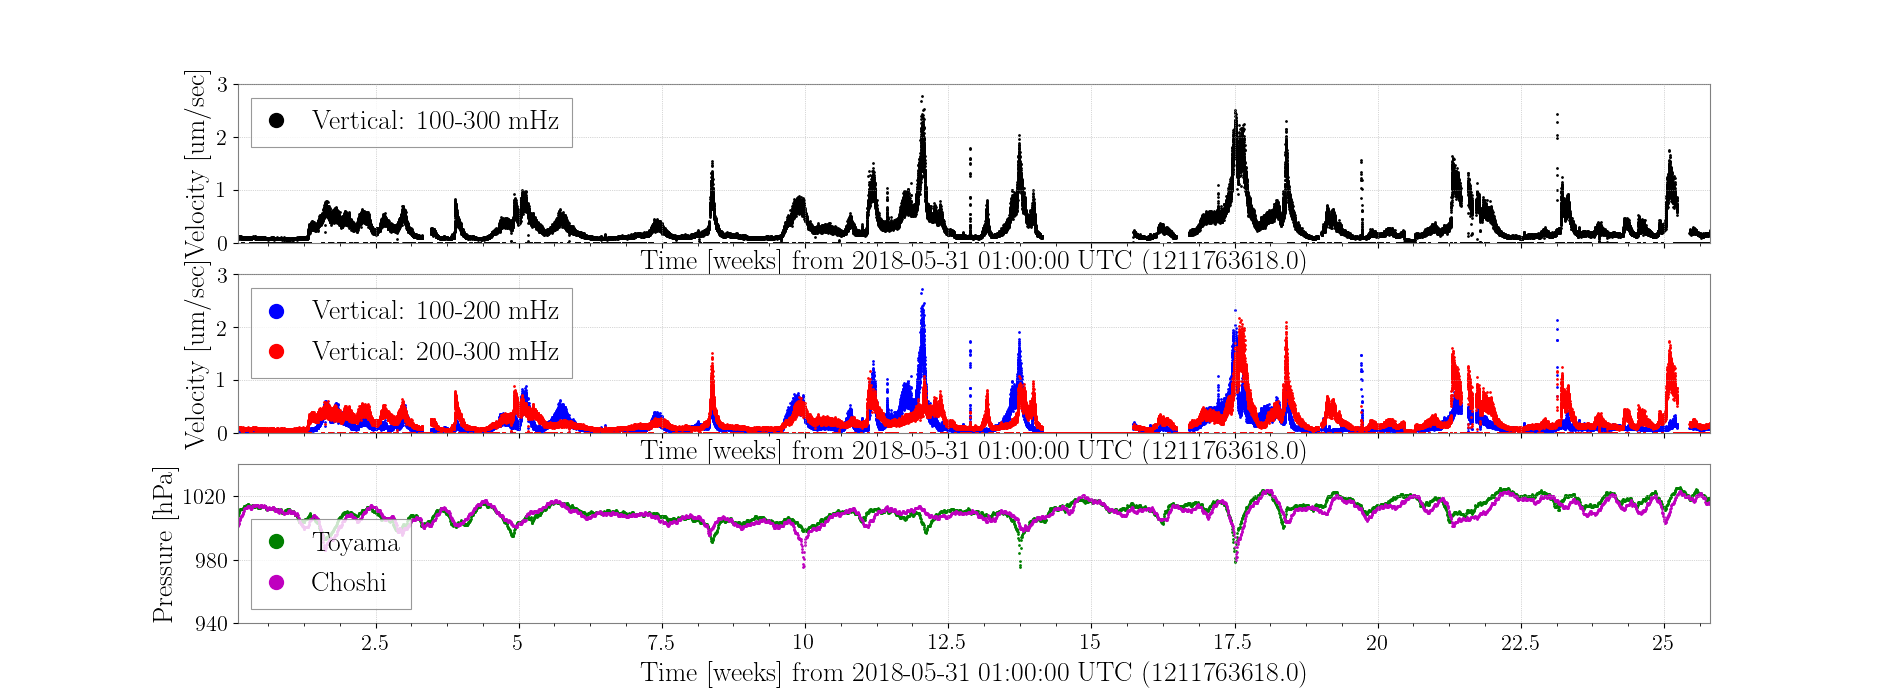
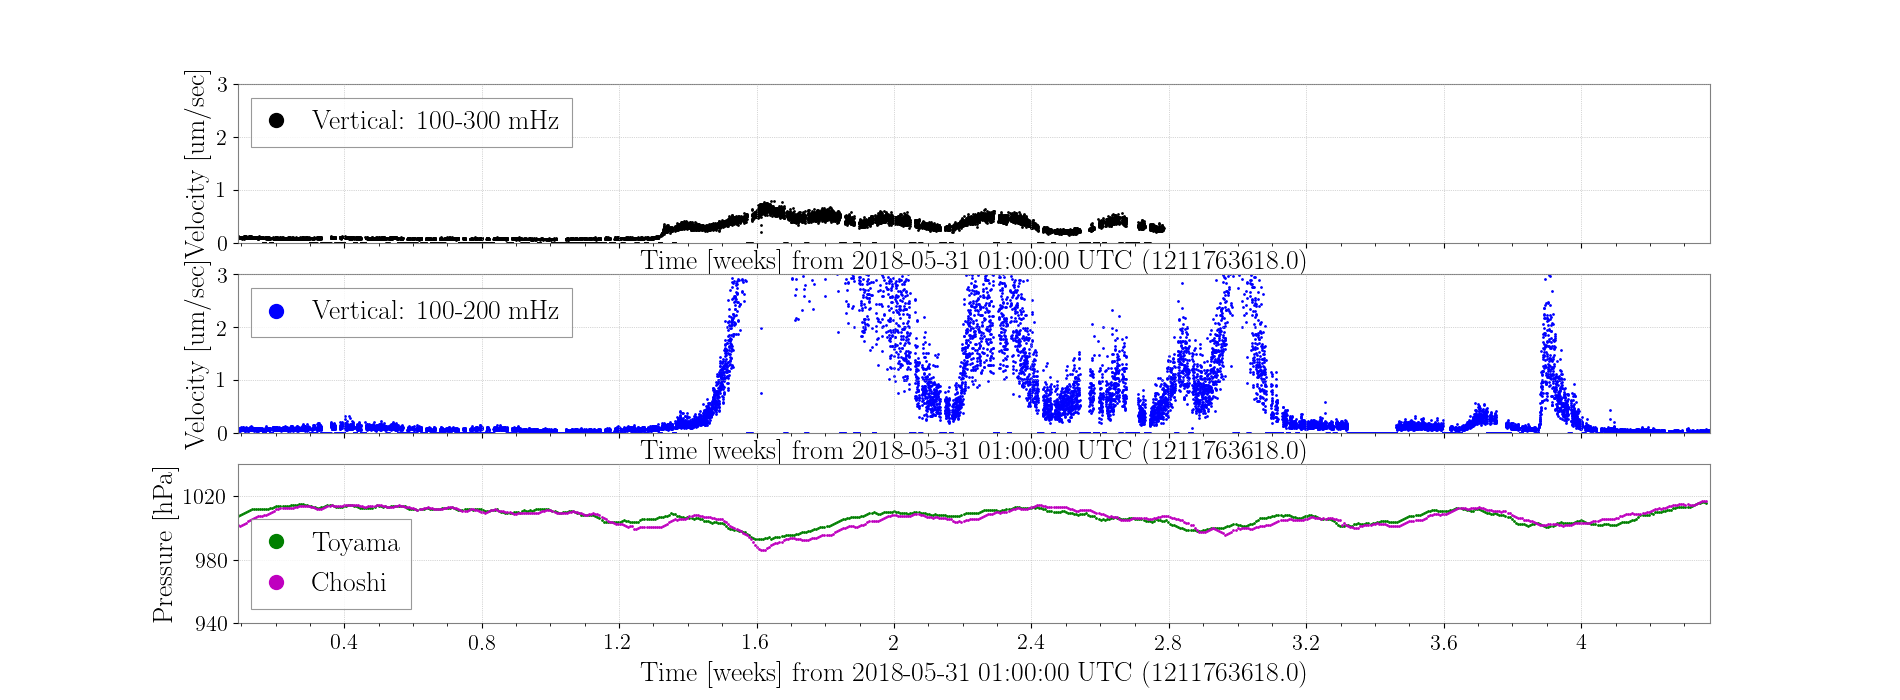
Update main2_*.py files

diff --git a/UnderGroundMotion/seismicnoise/main2_histogram.py b/UnderGroundMotion/seismicnoise/main2_histogram.py
@@ -5,7 +5,14 @@ from gwpy.spectrogram import Spectrogram
 from miyopy.utils.trillium import Trillium
 from obspy.signal.spectral_estimation import get_nhnm, get_nlnm
 from gwpy.types.array2d import Array2D
+from gwpy.timeseries import TimeSeries
+import astropy.units as u
 
+
+amp = 10**(30.0/20.0)
+c2v = 20.0/2**15
+
+    
 tr120 = Trillium('120QA')
 v2vel = tr120.v2vel    
     
@@ -19,68 +26,43 @@ lfreq, ldisp = lfreq, lvel/(2.0*np.pi*lfreq)
 hfreq, hdisp = hfreq, hvel/(2.0*np.pi*hfreq)
 
 
-def plot_band_histgram(sg,low,high,scale=0.9,loc=0):    
-    useism_band = sg.crop_frequencies(low,high).mean(axis=1) # um/rtHz
+def plot_band_histgram(blrms,blrms2,blrms3,scale=0.9,loc=0):
+    blrms.override_unit('m/s')    
+    blrms = blrms/amp*c2v/1000*1e6
+    blrms2 = blrms2/amp*c2v/1000*1e6
+    blrms3 = blrms3/amp*c2v/1000*1e6
+    #
+    hist,bins   = np.histogram(blrms ,density=True,bins=3000,range=(1e-2,10))
+    hist2,bins2 = np.histogram(blrms2,density=True,bins=3000,range=(1e-2,10))
+    hist3,bins3 = np.histogram(blrms3,density=True,bins=3000,range=(1e-2,10))
+    #
     fig, ax = plt.subplots(1,1,figsize=(7,7))
-    plt.title('Between {0:3.2f} - {1:3.2f} Hz '.format(low,high))
-    hist,bins = np.histogram(useism_band,density=True,bins=150,range=(0.01,10))
-    ax.step(bins[:-1],hist,where='post',color='k')
-    ax.set_ylim(0,1)
-    ax.set_xlabel('Horizontal motion [um/rtHz]')
-    #ax.set_xscale('log')
-    ax.set_xlim(1e-2,10e0)
-    if True:
-        from scipy.stats import rayleigh
-        x = np.linspace(0,10,10000)
-        #sigma = 0.9
-        #kitaichi = sigma*np.sqrt(np.pi/2.0)
-        #scale = sigma
-        ax.plot(x,rayleigh.pdf(x,scale=scale,loc=loc))
-    ax.set_ylabel('Counts')    
+    plt.title('BLRMS Histgram')
+    ax.step(bins[:-1],hist,where='post',color='k',label='100-300mHz')
+    ax.step(bins2[:-1],hist2,where='post',color='r',label='100-200mHz')
+    ax.step(bins3[:-1],hist3,where='post',color='b',label='200-300mHz')
+    ax.set_ylim(0,10)
+    ax.set_xlabel('Horizontal motion [um/sec]')
+    ax.set_xscale('log')
+    ax.set_xlim(1e-2,10)
+    ax.set_ylabel('Normarized Counts')
+    ax.legend()
     ax2 = ax.twinx()
     ax2.set_ylabel('Cumulative Probability')
     ax2.plot(bins[:-1],np.cumsum(hist)/np.float(np.sum(hist)),'k--',linewidth=2)
+    ax2.plot(bins2[:-1],np.cumsum(hist2)/np.float(np.sum(hist2)),'r--',linewidth=2)
+    ax2.plot(bins3[:-1],np.cumsum(hist3)/np.float(np.sum(hist3)),'b--',linewidth=2)
     ax2.set_ylim(0,1)
     ax2.set_yticks([0,0.1,0.5,0.9,1.0])
-    ax2.axhline(y=0.10, color='k', linestyle=':')
-    ax2.axhline(y=0.50, color='k', linestyle=':')
-    ax2.axhline(y=0.90, color='k', linestyle=':')
-    plt.savefig('./tmp/histgram_{0:02.2f}_{1:02.2f}.png'.format(low,high))
+    ax2.axhline(y=0.10, color='k', linestyle=':',zorder=0)
+    ax2.axhline(y=0.50, color='k', linestyle=':',zorder=0)
+    ax2.axhline(y=0.90, color='k', linestyle=':',zorder=0)
+    plt.savefig('./results/histgram.png')
+    plt.close()
 
-
-def percentile(sg_in1,pctl,unit='um'):    
-    amp = 10**(30.0/20.0)
-    c2v = 20.0/2**15    
-    _asd = v2vel(sg_in1.percentile(pctl))*c2v/amp*1e6
-    asd = _asd/(2.0*np.pi*_asd.frequencies.value)
-    return asd
-
-if False:
-    print('Read spectrogram')
-    x = Spectrogram.read('./tmp/SG_LongTerm_X.hdf5')
-    y = Spectrogram.read('./tmp/SG_LongTerm_Y.hdf5')
-    z = Spectrogram.read('./tmp/SG_LongTerm_Z.hdf5')
-    h = (x**2+y**2)**(0.5)
-    h.name = 'Horizontal'
-    h.channel = 'Horizontal'
-    h.write('./tmp/SG_LongTerm_H.hdf5',format='hdf5',overwrite=True)
-else:
-    h = Spectrogram.read('./tmp/SG_LongTerm_H.hdf5',format='hdf5')
-
-
-if True:
-    h = h.ratio('median')    
-    #h = h.crop_frequencies(0.1,0.2)
-    plot = h.plot(norm='log', vmin=.1, vmax=10, cmap='Spectral_r',epoch=h.t0)
-    ax = plot.gca()
-    ax.set_yscale('log')
-    ax.set_ylim(1e-2, 10)
-    ax.colorbar(label='Relative amplitude')
-    plot.savefig('./tmp/spectrogram.png')
-
-    
-if True:
-    low,high = 0.10,0.30
-    plot_band_histgram(h,low,high,scale=0.85,loc=0.1)
-    low,high = 0.03,0.10
-    plot_band_histgram(h,low,high,scale=0.67,loc=0.2)
+if __name__ == '__main__':
+    chname = 'K1:PEM-EX1_SEIS_Z_SENSINF_IN1_DQ'
+    x_blrms = TimeSeries.read('./data2/blrms/Z_100_300mHz_1211817600_1245372032.gwf',chname)
+    x_blrms2 = TimeSeries.read('./data2/blrms/Z_100_200mHz_1211817600_1245372032.gwf',chname)
+    x_blrms3 = TimeSeries.read('./data2/blrms/Z_200_300mHz_1211817600_1245372032.gwf',chname)    
+    plot_band_histgram(x_blrms,x_blrms2,x_blrms3)

diff --git a/UnderGroundMotion/seismicnoise/main2_blrms.py b/UnderGroundMotion/seismicnoise/main2_blrms.py
@@ -26,28 +26,22 @@ miyako = TimeSeries.read('./data_jma/miyako_press.gwf','JMA:MIYAKO-PRESS')
 
 c2v = 20.0/2**15
 gain = 10**(30.0/20)    
-blrms100_300 = TimeSeries.read('./data2/LongTerm_Z_BLRMS_100_300mHz.gwf','K1:PEM-EX1_SEIS_Z_SENSINF_IN1_DQ')
+blrms100_300 = TimeSeries.read('./data2/blrms/Z_100_300mHz_1211817600_1245372032.gwf','K1:PEM-EX1_SEIS_Z_SENSINF_IN1_DQ')
 blrms100_300 = blrms100_300/gain*c2v/1000*1e6
-blrms0_100 = TimeSeries.read('./data2/LongTerm_Z_BLRMS_0_100mHz.gwf','K1:PEM-EX1_SEIS_Z_SENSINF_IN1_DQ')
-blrms0_100 = blrms0_100/gain*c2v/1000*1e6
-blrms200_300 = TimeSeries.read('./data2/LongTerm_Z_BLRMS_200_300mHz.gwf','K1:PEM-EX1_SEIS_Z_SENSINF_IN1_DQ')
-blrms200_300 = blrms200_300/gain*c2v/1000*1e6
-blrms100_200 = TimeSeries.read('./data2/LongTerm_Z_BLRMS_100_200mHz.gwf','K1:PEM-EX1_SEIS_Z_SENSINF_IN1_DQ')
+#blrms200_300 = TimeSeries.read('./data2/blrms/Z_200_300mHz_1211817600_1245372032.gwf','K1:PEM-EX1_SEIS_Z_SENSINF_IN1_DQ')
+#blrms200_300 = blrms200_300/gain*c2v/1000*1e6
+blrms100_200 = TimeSeries.read('./data2/blrms/Z_100_200mHz_1211817600_1245372032.gwf','K1:PEM-EX1_SEIS_Z_SENSINF_IN1_DQ')
 blrms100_200 = blrms100_200/gain*c2v/1000*1e6
-blrms1_3 = TimeSeries.read('./data2/LongTerm_Z_BLRMS_1_3Hz.gwf','K1:PEM-EX1_SEIS_Z_SENSINF_IN1_DQ')
-blrms1_3 = blrms1_3/gain*c2v/1000*1e6
 
 t0 = blrms100_300.t0
 print from_gps(t0.value)
-tlen = 3600*24*30*6*u.s
+tlen = 3600*24*30*12*u.s
 #t0 = t0 + tlen
 tend = t0 + tlen
 #
 blrms100_300 = blrms100_300.crop(t0.value,(t0+tlen).value)
-blrms200_300 = blrms200_300.crop(t0.value,(t0+tlen).value)
+#blrms200_300 = blrms200_300.crop(t0.value,(t0+tlen).value)
 blrms100_200 = blrms100_200.crop(t0.value,(t0+tlen).value)
-blrms0_100   = blrms0_100.crop(t0.value,(t0+tlen).value)
-blrms1_3     = blrms1_3.crop(t0.value,(t0+tlen).value)*10
 #
 toyama      = toyama.crop(t0.value,(t0+tlen).value)
 takayama    = takayama.crop(t0.value,(t0+tlen).value)
@@ -65,7 +59,7 @@ miyako      = miyako.crop(t0.value,(t0+tlen).value)
 fig,(ax,ax2,ax3) = plt.subplots(3,1,figsize=(19,7),sharex=True)
 ax.plot(blrms100_300,'ko',markersize=1,label='Vertical: 100-300 mHz')
 ax2.plot(blrms100_200,'bo',markersize=1,label='Vertical: 100-200 mHz')
-ax2.plot(blrms200_300,'ro',markersize=1,label='Vertical: 200-300 mHz')
+#ax2.plot(blrms200_300,'ro',markersize=1,label='Vertical: 200-300 mHz')
 #ax.plot(blrms0_100,'ko',markersize=1,label='Vertical: 0-100 mHz')
 #ax.plot(blrms1_3,'ro',markersize=1,label='Z: 1-3 Hz')
 ax3.plot(toyama,'go',markersize=1,label='Toyama')
